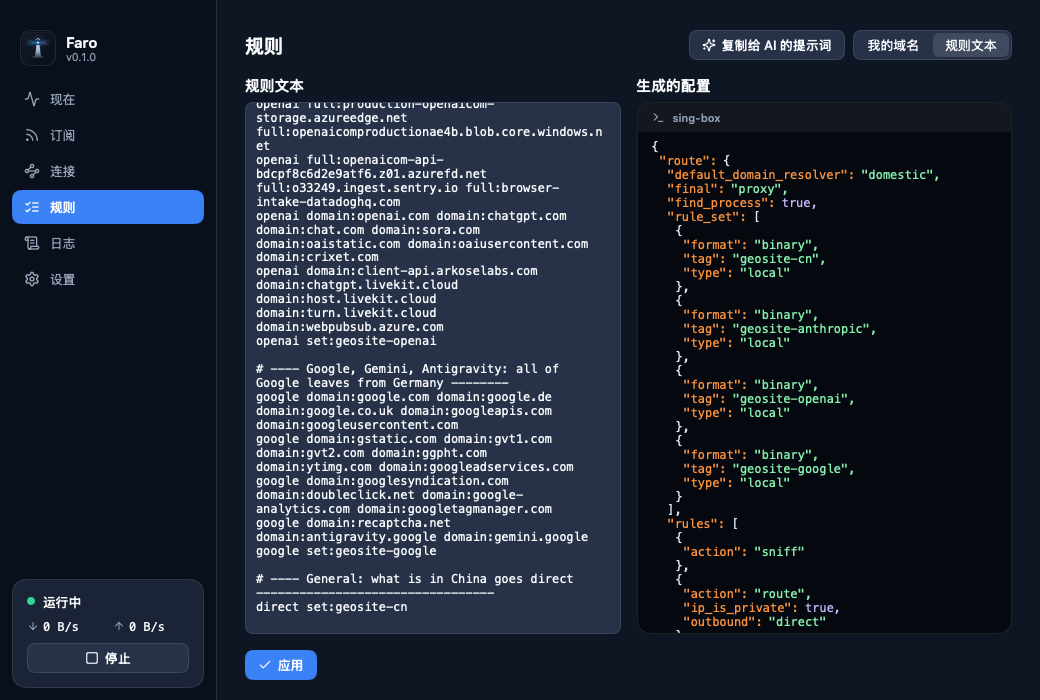
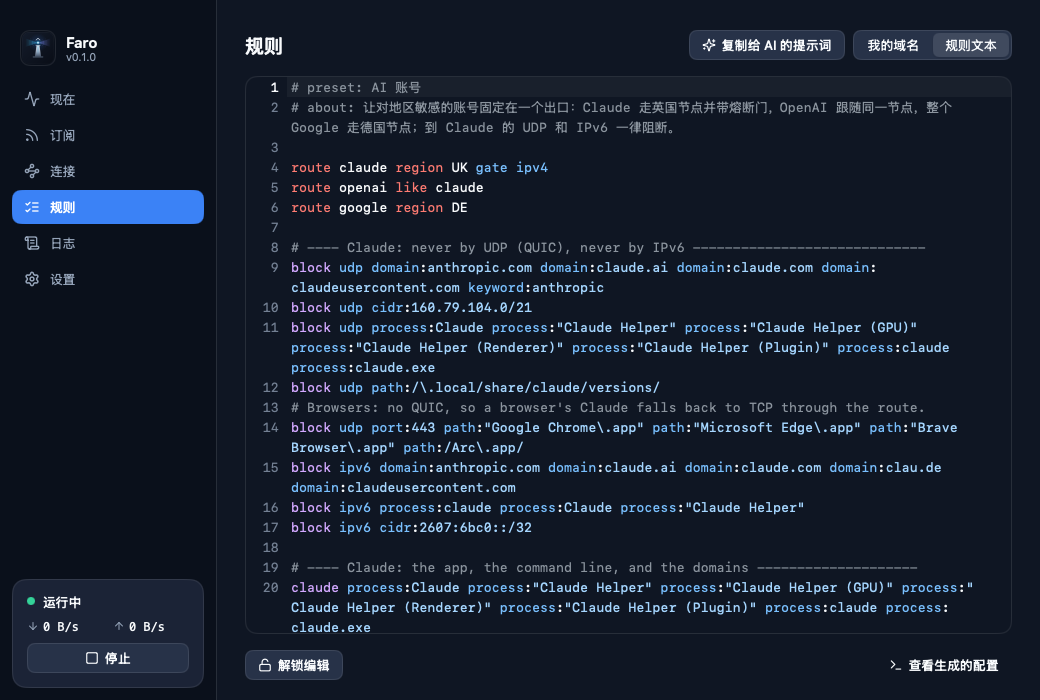
Rules text: a code editor, shut until opened; generated config hidden until asked for

diff --git a/rules_editor.go b/rules_editor.go
@@ -1,0 +1,147 @@
+package main
+
+import (
+	"strings"
+
+	"github.com/egoist/mygo/ui"
+	"github.com/egoist/mygo/ui/editor"
+)
+
+// rulesLanguage tells the code editor how the rules text reads: what is a
+// statement's word, what a flag, what a kind and its value, what a comment.
+// It knows the shape of the language, not what anyone writes in it.
+var rulesLanguage = &editor.Language{
+	Name:        "faro-rules",
+	LineComment: "#",
+	Tokenizer:   editor.TokenizerFunc(tokenizeRules),
+	AutoClose:   []editor.BracketPair{{Open: `"`, Close: `"`}},
+}
+
+var (
+	ruleStatements = map[string]bool{"route": true, "region": true, "notice": true}
+	ruleHow        = map[string]bool{"region": true, "like": true, "regex": true}
+	ruleFlags      = map[string]bool{"udp": true, "tcp": true, "ipv4": true, "ipv6": true, "fast": true, "gate": true}
+)
+
+// tokenizeRules splits one line into the runs the editor colors. A line is
+// read alone, so the state is always 0.
+func tokenizeRules(line string, _ uint64, out []editor.Token) ([]editor.Token, uint64) {
+	add := func(end int, k editor.TokenKind) {
+		if n := len(out); n > 0 && out[n-1].Kind == k {
+			out[n-1].End = end
+			return
+		}
+		out = append(out, editor.Token{End: end, Kind: k})
+	}
+	i, word := 0, 0
+	var statement string
+	for i < len(line) {
+		if line[i] == ' ' || line[i] == '\t' {
+			j := i
+			for j < len(line) && (line[j] == ' ' || line[j] == '\t') {
+				j++
+			}
+			add(j, editor.TokenText)
+			i = j
+			continue
+		}
+		if line[i] == '#' { // a comment starts a word, never ends one
+			add(len(line), editor.TokenComment)
+			break
+		}
+		// The word runs to a space outside quotes.
+		j, in := i, false
+		for j < len(line) {
+			if line[j] == '"' {
+				in = !in
+			} else if !in && (line[j] == ' ' || line[j] == '\t') {
+				break
+			}
+			j++
+		}
+		w := line[i:j]
+		switch {
+		case word == 0 && ruleStatements[w]:
+			statement = w
+			add(j, editor.TokenKeyword)
+		case word == 0: // not a statement: a target
+			add(j, editor.TokenFunction)
+		case statement == "route" && word == 1:
+			add(j, editor.TokenVariable)
+		case statement == "route" && word == 2 && ruleHow[w]:
+			add(j, editor.TokenKeyword)
+		case ruleFlags[w]:
+			add(j, editor.TokenConstant)
+		case strings.HasPrefix(w, `"`):
+			add(j, editor.TokenString)
+		default:
+			if k := strings.IndexByte(w, ':'); k > 0 && isWord(w[:k]) {
+				add(i+k, editor.TokenProperty)
+				add(i+k+1, editor.TokenPunctuation)
+				add(j, editor.TokenString)
+			} else {
+				add(j, editor.TokenText)
+			}
+		}
+		i = j
+		word++
+	}
+	return out, 0
+}
+
+func isWord(s string) bool {
+	for _, r := range s {
+		if !(r >= 'a' && r <= 'z' || r >= 'A' && r <= 'Z' || r == '-' || r == '_') {
+			return false
+		}
+	}
+	return s != ""
+}
+
+// rulesEditor is the rules text in a code editor: line numbers, colors, and
+// the mistakes marked on their lines. a.rulesEdit stays the text; this keeps
+// the buffer and it the same, whichever was changed last.
+func (a *app) rulesEditor(c *ui.Context, open bool) {
+	if a.rulesCode == nil {
+		buf := editor.NewBuffer(a.rulesEdit)
+		buf.SetLanguage(rulesLanguage)
+		a.rulesCode = &editor.State{Buffer: buf, Label: "规则文本", NoFolding: true, NoIndentGuides: true, SoftWrap: true}
+		a.rulesSeen, a.rulesVer = a.rulesEdit, buf.Version()
+	}
+	buf := a.rulesCode.Buffer
+	if a.rulesEdit != a.rulesSeen { // set from outside: a reset, or a test
+		buf.Set(a.rulesEdit)
+		a.rulesSeen, a.rulesVer = a.rulesEdit, buf.Version()
+	} else if v := buf.Version(); v != a.rulesVer { // typed
+		a.rulesEdit = buf.String()
+		a.rulesSeen, a.rulesVer = a.rulesEdit, v
+	}
+	a.rulesCode.ReadOnly = !open
+	a.markRulesErrors()
+	ui.Column(c).Grow(1).Radius(12).Border(1, a.k.border).Clip().Children(func() {
+		editor.View(c, a.rulesCode).Grow(1)
+	})
+}
+
+// markRulesErrors puts each mistake on its line, when they or the text change.
+func (a *app) markRulesErrors() {
+	key := a.rulesVer
+	if a.rulesMarked == key && a.rulesMarkedErrs == len(a.rulesErrs) {
+		return
+	}
+	a.rulesMarked, a.rulesMarkedErrs = key, len(a.rulesErrs)
+	lines := strings.Split(a.rulesEdit, "\n")
+	var ds []editor.Diagnostic
+	for _, e := range a.rulesErrs {
+		start := 0
+		for n := 0; n < e.Line-1 && n < len(lines); n++ {
+			start += len(lines[n]) + 1
+		}
+		end := start
+		if e.Line >= 1 && e.Line <= len(lines) {
+			end = start + len(lines[e.Line-1])
+		}
+		ds = append(ds, editor.Diagnostic{Start: start, End: end, Severity: editor.SeverityError, Message: e.Msg})
+	}
+	a.rulesCode.SetDiagnostics(a.rulesVer, ds)
+}

diff --git a/main_test.go b/main_test.go
@@ -10,6 +10,7 @@ import (
 
 	"github.com/egoist/mygo"
 	"github.com/egoist/mygo/ui"
+	"github.com/egoist/mygo/ui/editor"
 
 	"faro/internal/clashapi"
 	"faro/internal/engine"
@@ -257,7 +258,13 @@ func TestRulesPageShowsErrorsWithLines(t *testing.T) {
 	a.rulesTab = 1 // the rules text
 	good := a.eng.State().RulesText
 	tt := view(a, "规则")
-	need(t, tt, "应用", "规则文本")
+	need(t, tt, "解锁编辑", "规则文本")
+	if tt.HasText("应用") {
+		t.Error("the rules text can be applied before it is unlocked")
+	}
+	tt.Click("解锁编辑")
+	view(a, "规则").Click("解锁")
+	need(t, view(a, "规则"), "应用", "锁定")
 
 	a.rulesEdit = "route x region ZZ\nnope domain:a.com\n"
 	view(a, "规则").Click("应用")
@@ -286,7 +293,10 @@ func TestRulesPageShipsNoReadyMadeRules(t *testing.T) {
 		t.Error("a new install does not start with the base rules")
 	}
 	tt := view(a, "规则")
-	need(t, tt, "规则文本", "应用", "复制给 AI 的提示词")
+	need(t, tt, "规则文本", "解锁编辑", "复制给 AI 的提示词")
+	if tt.HasText("sing-box") {
+		t.Error("the generated config is shown without being asked for")
+	}
 	for _, txt := range tt.Texts() {
 		for _, gone := range []string{"预设", "替换为它", "追加", "AI 账号"} {
 			if strings.Contains(txt, gone) {
@@ -913,7 +923,8 @@ func TestRulesPageStartsWithTheirSitesAndAnEmptyListOffersAGroup(t *testing.T) {
 	}
 	// The other tab is the rules text, as it was.
 	tt = view(a, "规则", "规则文本")
-	need(t, tt, "应用", "生成的配置")
+	need(t, tt, "解锁编辑", "查看生成的配置")
+	need(t, view(a, "规则", "规则文本", "查看生成的配置"), "sing-box", "隐藏生成的配置")
 }
 
 func TestGroupsAreShownWithTheirPlaceAndSites(t *testing.T) {
@@ -1076,5 +1087,52 @@ func TestMenuTitleChangesNoMoreThanEveryTwoSeconds(t *testing.T) {
 	// Two seconds on, it follows.
 	if got := menuTitle(running(4<<20, 4<<20), first, t0, t0.Add(2*time.Second)); got != "4.00 MB/s" {
 		t.Errorf("after two seconds: %q", got)
+	}
+}
+
+func TestRulesTextIsColoredByWhatEachWordIs(t *testing.T) {
+	kinds := func(line string) map[string]editor.TokenKind {
+		toks, _ := tokenizeRules(line, 0, nil)
+		got, from := map[string]editor.TokenKind{}, 0
+		for _, k := range toks {
+			got[strings.TrimSpace(line[from:k.End])] = k.Kind
+			from = k.End
+		}
+		return got
+	}
+	g := kinds(`route uk region GB gate ipv4 # note`)
+	for word, want := range map[string]editor.TokenKind{
+		"route": editor.TokenKeyword, "uk": editor.TokenVariable, "region": editor.TokenKeyword,
+		"gate": editor.TokenConstant, "ipv4": editor.TokenConstant, "# note": editor.TokenComment,
+	} {
+		if g[word] != want {
+			t.Errorf("%q is kind %v, want %v (%v)", word, g[word], want, g)
+		}
+	}
+	g = kinds(`uk domain:a.com full:"b c"`)
+	if g["uk"] != editor.TokenFunction || g["domain"] != editor.TokenProperty || g["a.com"] != editor.TokenString {
+		t.Errorf("a rule line: %v", g)
+	}
+	if g := kinds(`regex#x # c`); g["regex#x"] != editor.TokenFunction || g["# c"] != editor.TokenComment {
+		t.Errorf("a # inside a word is not a comment: %v", g)
+	}
+}
+
+func TestRulesEditorKeepsTheTextAndMarksMistakes(t *testing.T) {
+	a := newTestApp(t)
+	a.rulesTab, a.rulesOpen = 1, true
+	a.rulesEdit = "route x region ZZ\nnope domain:a.com\n"
+	view(a, "规则").Click("应用")
+	view(a, "规则")
+	if got := a.rulesCode.Buffer.String(); got != a.rulesEdit {
+		t.Errorf("editor holds %q, text is %q", got, a.rulesEdit)
+	}
+	if n := len(a.rulesCode.Diagnostics()); n != 2 {
+		t.Errorf("%d mistakes marked, want 2", n)
+	}
+	a.rulesCode.Buffer.Set("direct domain:b.com\n") // typed in the editor
+	view(a, "规则")
+	if a.rulesEdit != "direct domain:b.com\n" {
+		t.Errorf("typing did not reach the text: %q", a.rulesEdit)
 	}
 }

diff --git a/page_rules.go b/page_rules.go
@@ -40,19 +40,13 @@ func (a *app) rulesPage(c *ui.Context, st engine.State) {
 		return
 	}
 
-	// The text you write, and beside it what it makes: the editor does not
-	// hide the config it is turned into.
+	// The rules text is the system's: it is shut until it is opened on purpose,
+	// and the config it makes is not shown unless asked for.
 	ui.Row(c).Grow(1).Gap(16).AlignItems(ui.Stretch).Children(func() {
-		ui.Column(c).Grow(1).Gap(8).Children(func() {
-			ui.Text(c, "规则文本").FontSize(fsHeading).FontWeight(600)
-			ui.TextArea(c, &a.rulesEdit).Label("规则文本").Grow(1).Font(monoFont).FontSize(fsMeta)
-		})
-		ui.Column(c).Grow(1).Gap(8).Children(func() {
-			ui.Row(c).Gap(8).AlignItems(ui.Center).Children(func() {
-				ui.Text(c, "生成的配置").FontSize(fsHeading).FontWeight(600).Grow(1)
-			})
-			a.configPreview(c, st)
-		})
+		a.rulesEditor(c, a.rulesOpen)
+		if a.showConfig {
+			ui.Column(c).Grow(1).Children(func() { a.configPreview(c, st) })
+		}
 	})
 	for _, e := range a.rulesErrs {
 		ui.Row(c).Gap(8).AlignItems(ui.Start).Children(func() {
@@ -61,13 +55,31 @@ func (a *app) rulesPage(c *ui.Context, st engine.State) {
 		})
 	}
 	ui.Row(c).Gap(8).AlignItems(ui.Center).Children(func() {
-		if a.button(c, btnPrimary, "check", "应用").Clicked() && st.Busy == "" {
-			a.rulesErrs = a.eng.ApplyRules(a.rulesEdit)
+		if a.rulesOpen {
+			if a.button(c, btnPrimary, "check", "应用").Clicked() && st.Busy == "" {
+				a.rulesErrs = a.eng.ApplyRules(a.rulesEdit)
+			}
+			if a.button(c, btnSecondary, "lock", "锁定").Clicked() {
+				a.rulesOpen = false
+			}
+			if a.rulesEdit != st.RulesText {
+				a.pill(c, "改动尚未生效", a.k.warn)
+			}
+		} else if a.button(c, btnSecondary, "lock-open", "解锁编辑").Clicked() {
+			a.unlockAsk = true
 		}
-		if a.rulesEdit != st.RulesText {
-			a.pill(c, "改动尚未生效", a.k.warn)
+		ui.Box(c).Grow(1)
+		label := "查看生成的配置"
+		if a.showConfig {
+			label = "隐藏生成的配置"
+		}
+		if a.button(c, btnGhost, "terminal", label).Clicked() {
+			a.showConfig = !a.showConfig
 		}
 	})
+	if ui.AlertDialog(c, &a.unlockAsk, "编辑规则文本？", "写错会让流量走错出口，应用前请先核对。", "取消", "解锁") == 1 {
+		a.rulesOpen = true
+	}
 }
 
 // configPreview shows the config the rules in force make, in a code panel:

diff --git a/main.go b/main.go
@@ -11,6 +11,7 @@ import (
 
 	"github.com/egoist/mygo"
 	"github.com/egoist/mygo/ui"
+	"github.com/egoist/mygo/ui/editor"
 
 	"faro/internal/engine"
 	"faro/internal/rules"
@@ -42,6 +43,15 @@ type app struct {
 	rulesEdit string
 	rulesErrs []rules.Error
 	rulesTab  int // 0 the person's sites in groups, 1 the rules text
+
+	rulesOpen       bool // the text is open to editing
+	showConfig      bool
+	unlockAsk       bool
+	rulesCode       *editor.State // the rules text in a code editor
+	rulesSeen       string        // the text the editor was last made the same as
+	rulesVer        uint64        // the buffer's version then
+	rulesMarked     uint64        // the version the mistakes were last marked at
+	rulesMarkedErrs int
 
 	domSel    map[string]*string   // the places' drop-downs, by group
 	domTokens map[string]*[]string // each group's sites, as the field holds them
